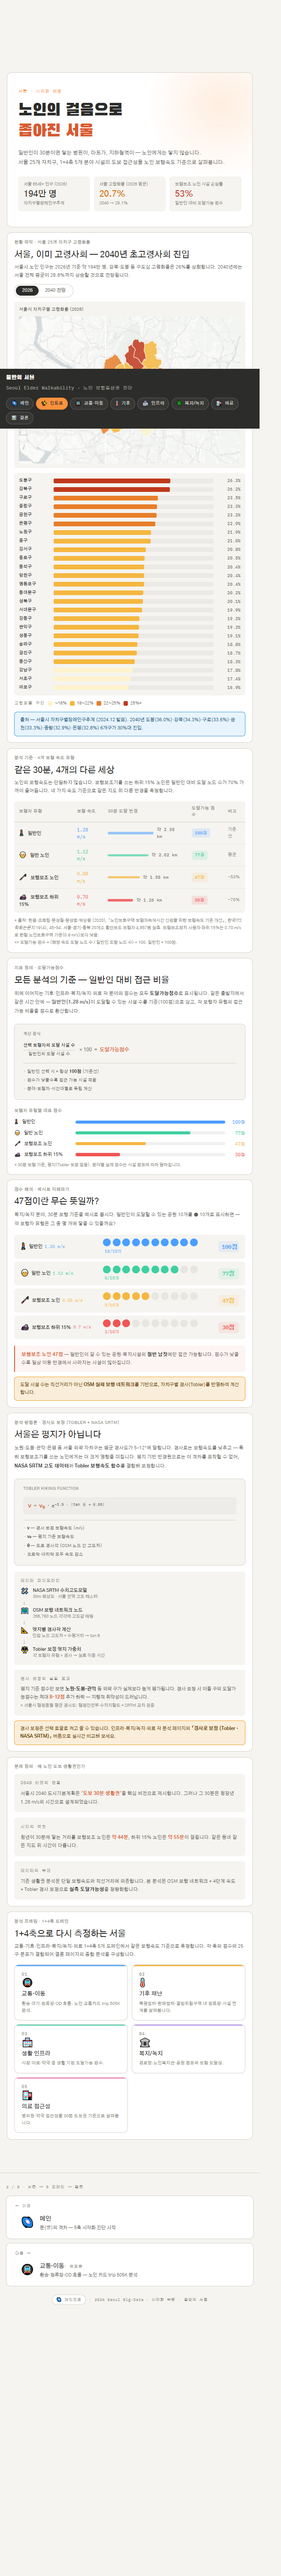
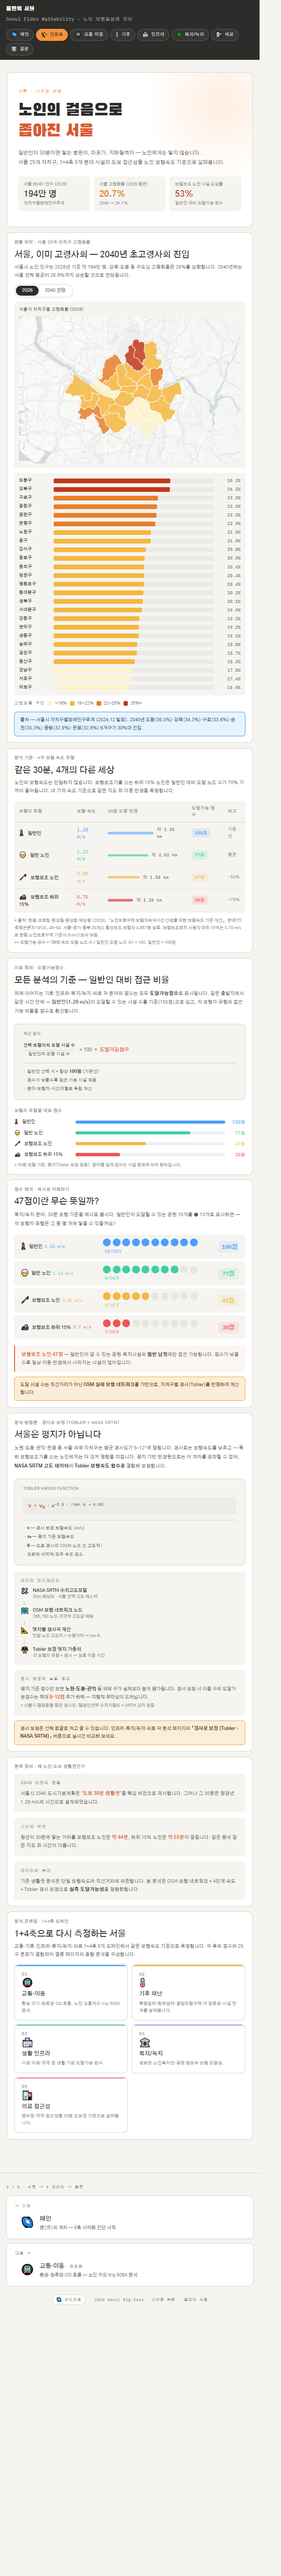
chore: 리드미 수정 2

Changed region(s): [[0.0, 0.125, 0.9466, 0.1874], [0.0, 0.0, 0.9466, 0.0312]]

diff --git a/README.md b/README.md
@@ -65,7 +65,7 @@
 
 <table>
   <tr>
-    <td valign="top" width="50%"><b>소개 · 방법론</b><br><img src="output-image/2_seniorwalkseoul2.site_introduce.png" width="100%"></td>
+    <td valign="top" width="50%"><b>소개 · 방법론</b><br><img src="output-image/2_seniorwalkseoul.site_introduce.png" width="100%"></td>
     <td valign="top" width="50%"><b>대중교통 동선</b><br><img src="output-image/3_seniorwalkseoul.site_trans.png" width="100%"></td>
   </tr>
   <tr>
